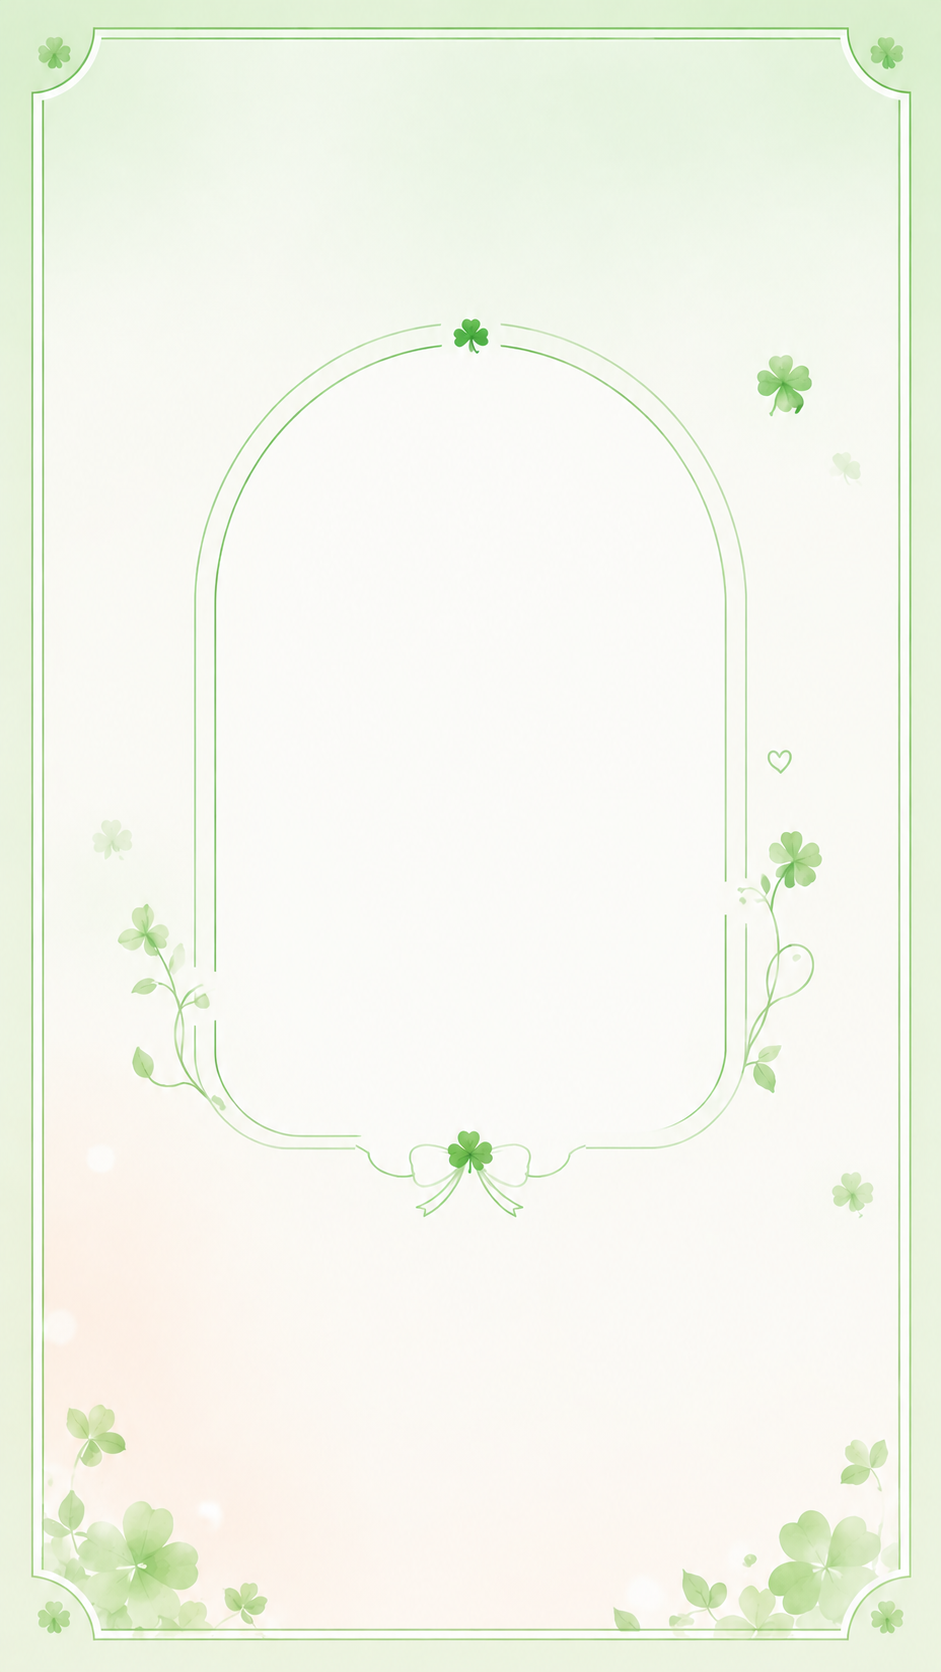
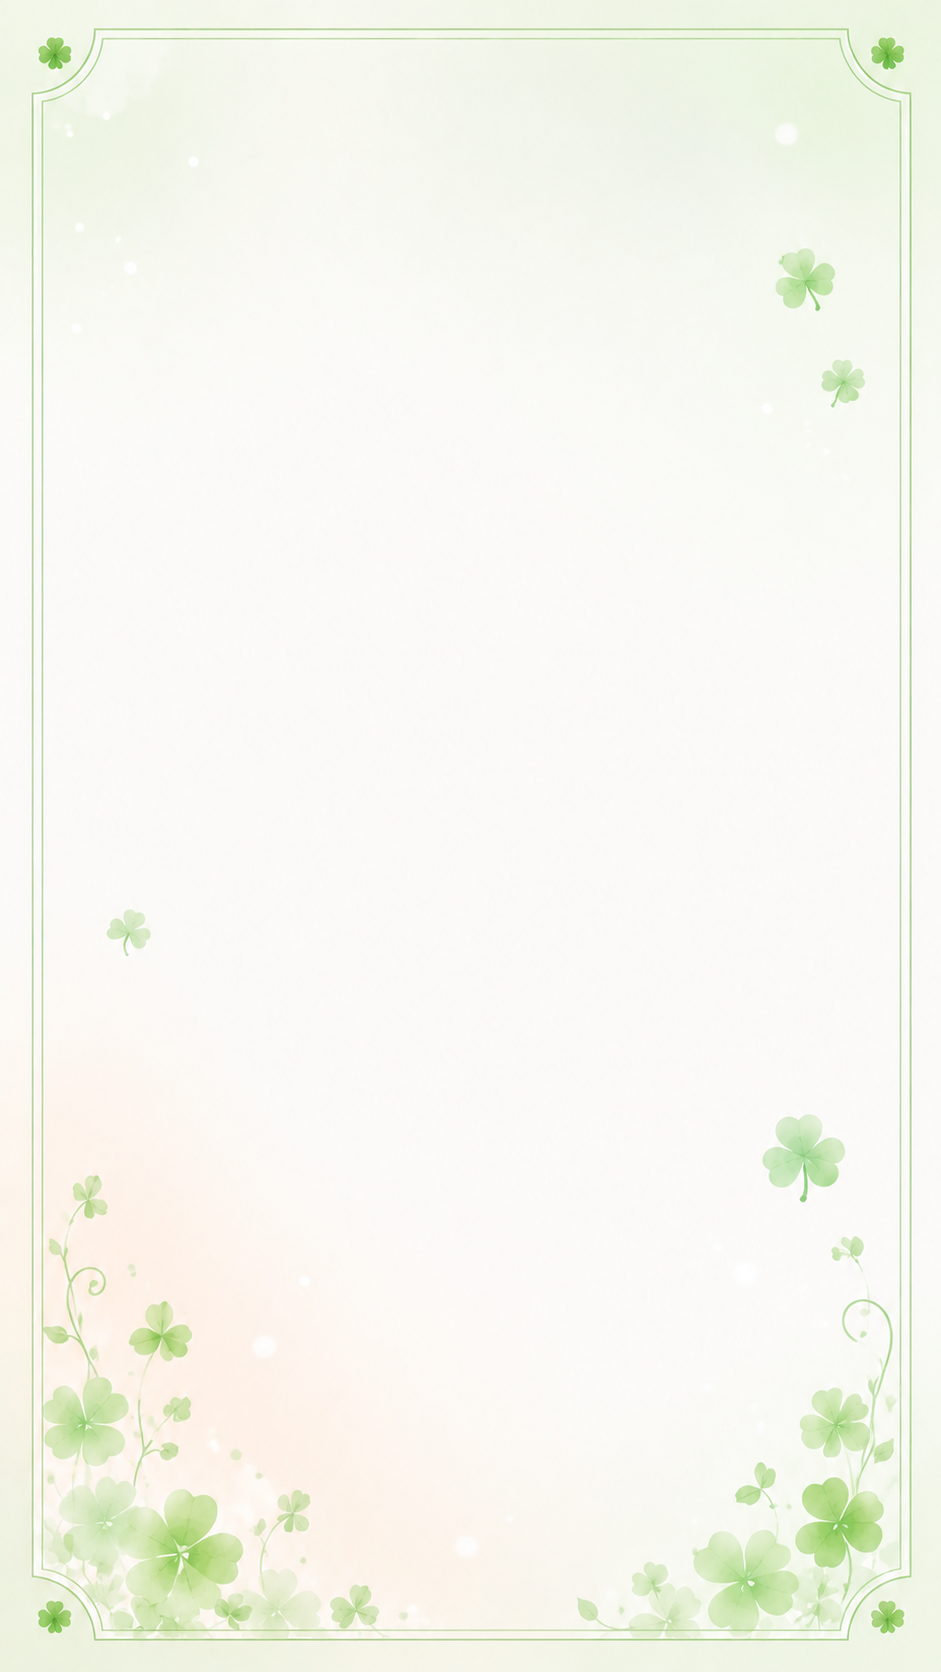
히어로 배경 이미지 업데이트, 스크롤 시 배경 늘어나는 문제 수정 (100dvh -> 100svh)

diff --git a/index.html b/index.html
@@ -94,7 +94,7 @@
   /* === Hero === */
   .hero {
     min-height: 100vh;
-    min-height: 100dvh;
+    min-height: 100svh;
     display: flex; flex-direction: column; justify-content: center; align-items: center;
     text-align: center; padding: 80px 28px 120px;
     background: url('hero-bg.png') center / cover no-repeat, var(--cream);
